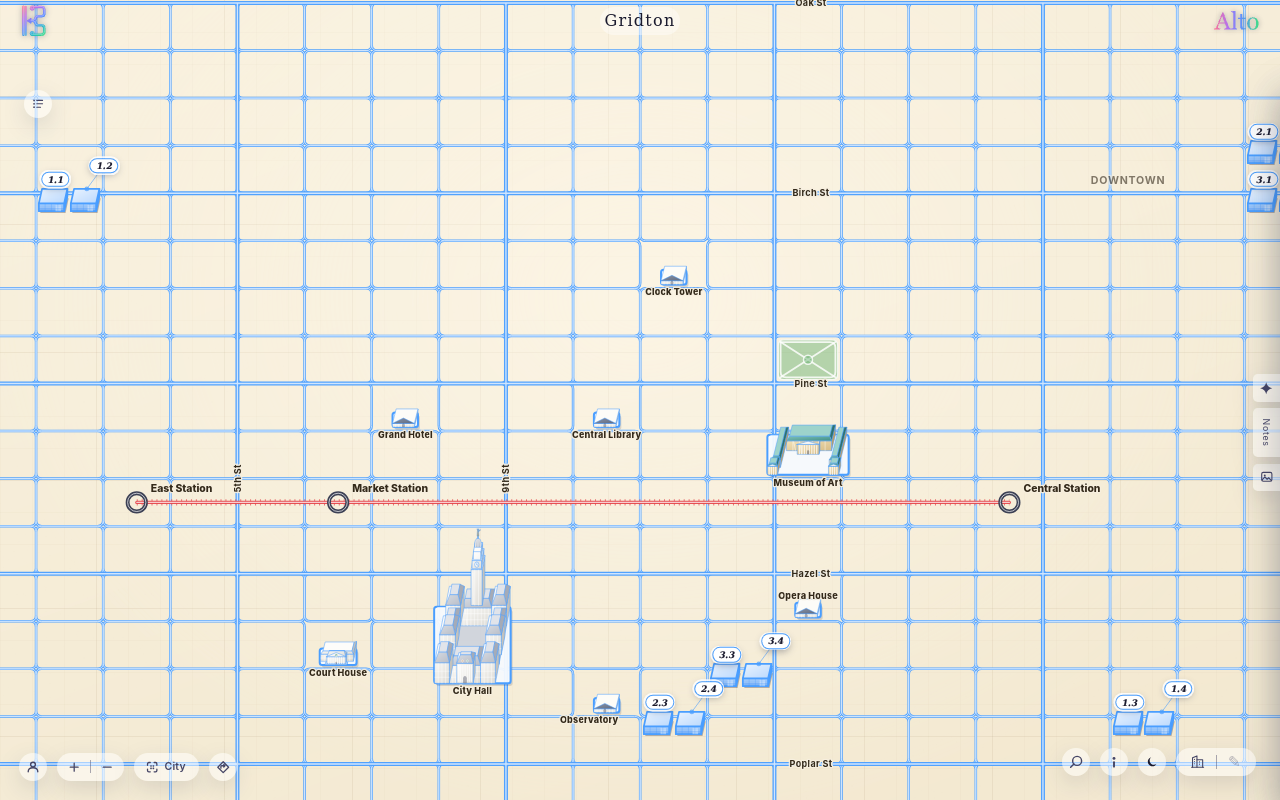
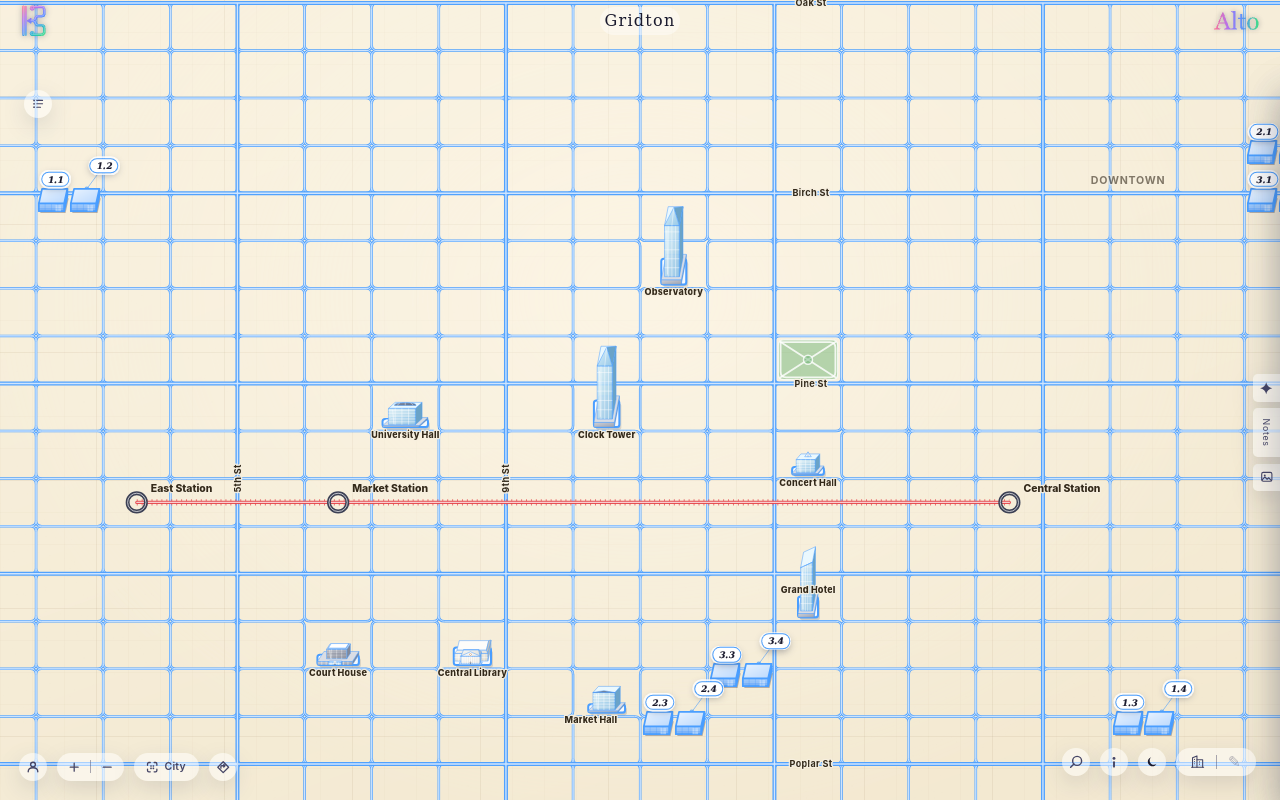
City build: invented landmarks get Alto's generic buildings (a look per landmark, varied by city, height and width), never a real building's art by name (an invented City Hall was drawn as Philadelphia's); palace_skyline art hints carry width_m
Claude-Session: https://claude.ai/code/session_01NpC4JTZhMtRV46Htvkp7WW

diff --git a/alto/build/city_invent.py b/alto/build/city_invent.py
@@ -47,6 +47,17 @@ _ROWS = ("Oak", "Elm", "Maple", "Cedar", "Birch", "Walnut", "Chestnut", "Spruce"
 _LANDMARKS = ("City Hall", "Central Library", "Museum of Art", "Opera House", "Court House", "Observatory", "Clock Tower",
               "Grand Hotel", "Market Hall", "University Hall", "Science Museum", "Concert Hall")
 ORD = {1: "st", 2: "nd", 3: "rd"}
+# an invented landmark's look: Alto's generic buildings only, never a real one (the page matches art by NAME, so an
+# invented "City Hall" or "Museum of Art" would otherwise be drawn as Philadelphia's). look -> art key.
+LOOKS = {"dome": "g-dome", "spire": "g-spire", "gable": "g-gable", "pyramid": "g-pyramid", "angled": "g-angled",
+         "flat": "g-flat", "classical": "ct-classical-city", "modern": "ct-modern-city", "tall": "ct-tower-city"}
+_LOOK_BY = [(r"hall|capitol|parliament|council|senate", ("dome", "classical", "spire", "gable")),
+            (r"court|justice", ("classical", "modern", "tall")),
+            (r"tower|clock|observatory|lighthouse|spire", ("spire", "pyramid", "tall")),
+            (r"museum|gallery|library|archive|university|college|school", ("classical", "dome", "gable", "angled")),
+            (r"opera|theat|concert|music|arena", ("angled", "dome", "pyramid")),
+            (r"hotel|bank|exchange|trade|office|plaza|centre|center", ("angled", "flat", "tall", "spire")),
+            (r"market|station|hall|church|temple|cathedral", ("gable", "pyramid", "spire"))]
 
 
 class InventError(ValueError):
@@ -55,6 +66,16 @@ class InventError(ValueError):
     def __init__(self, problems):
         self.problems = list(problems)
         super().__init__("; ".join(self.problems))
+
+
+def _look(city, name, kind, used=()):
+    """A landmark's look when the spec names none: from what its name says it is, varied by the city and the name
+    (seeded, so the same city always looks the same), avoiding looks the city has already used where it can."""
+    opts = next((o for rx, o in _LOOK_BY if re.search(rx, name, re.I)), None)
+    if opts is None:
+        opts = ("spire", "tall", "angled") if kind == "tower" else tuple(LOOKS)
+    fresh = [o for o in opts if o not in used] or list(opts)
+    return fresh[_seed(city + "|" + name) % len(fresh)]
 
 
 def _ord(i):
@@ -75,7 +96,8 @@ def template(kind=DEFAULT_TEMPLATE, name="") -> dict:
                   "radial": "Ringford", "blank": "New City"}[kind]
     if kind == "blank":
         return {"name": nm, "template": "blank", "districts": [], "streets": [], "water": [], "landmarks": [], "transit": []}
-    lm = list(_LANDMARKS[:8])
+    pool = sorted(_LANDMARKS, key=lambda x: _seed(nm + "|" + x))          # each city its own eight, in its own order
+    lm = pool[:8]
     if kind == "grid":
         ds = [{"name": "Downtown", "kind": "grid", "center": [1400, 1200], "size_km": [2.6, 2.2], "angle": 0}]
         streets, water = [], []
@@ -101,7 +123,8 @@ def template(kind=DEFAULT_TEMPLATE, name="") -> dict:
         streets = [{"name": "Crown Road", "class": "main", "from": "Centre", "to": "Newtown"}]
         water = []
     spots = [d["name"] for d in ds]
-    lms = [{"name": n, "at": spots[i % len(spots)], "kind": "civic" if i % 3 else "tower"} for i, n in enumerate(lm)]
+    lms = [{"name": n, "at": spots[i % len(spots)], "kind": "tower" if re.search(r"tower|observatory|hotel", n, re.I) else "civic"}
+           for i, n in enumerate(lm)]
     lms += [{"name": "Central Park" if kind != "radial" else "Ring Gardens", "at": spots[0], "kind": "park"},
             {"name": "Central Station", "at": spots[0], "kind": "station"},
             {"name": "Market Station", "at": spots[0], "kind": "station"},
@@ -202,6 +225,8 @@ def validate(spec) -> list:
         seen[_norm(n)] = lm.get("kind") or "civic"
         if (lm.get("kind") or "civic") not in ("tower", "civic", "station", "park"):
             P.append("landmark %r is a %r: a landmark is a tower, civic building, station or park" % (n, lm.get("kind")))
+        if lm.get("look") is not None and lm["look"] not in LOOKS:
+            P.append("landmark %r: a look is one of %s" % (n, ", ".join(LOOKS)))
         if lm.get("floors") is not None and not (_num(lm["floors"]) and 1 <= lm["floors"] <= 160):
             P.append("landmark %r: floors is a number from 1 to 160" % n)
     n_lm = sum(1 for lm in spec.get("landmarks") or [] if isinstance(lm, dict) and lm.get("kind") not in ("park", "station"))
@@ -449,7 +474,7 @@ def invent_city(spec) -> dict:
         return None
 
     # the spine: main streets between districts / points (they end on a district's street, so nothing starts from nowhere)
-    lm_pos, notes = {}, []
+    lm_pos, notes, used_looks = {}, [], []
     pend = []
     for s in spec.get("streets") or []:
         pend.append(s)
@@ -516,7 +541,13 @@ def invent_city(spec) -> dict:
             stations.append({"n": nm, "x": round(cx, 1), "y": round(cy, 1), "k": "rail", "l": []})   # (the line draws it)
         else:
             landmarks.append({"n": nm, "x": round(cx, 1), "y": round(cy, 1), "r": [_block_ring(cx, cy, bw, bh, 14.0)]})
-            lm_specs.append({"name": nm, **({"floors": int(lm["floors"])} if lm.get("floors") else {})})
+            look = lm.get("look") or _look(spec.get("name") or "", nm, kind, used_looks)
+            used_looks.append(look)
+            hs = _seed((spec.get("name") or "") + "|h|" + nm)
+            hm = float(lm["floors"]) * 4.0 if lm.get("floors") else (90 + hs % 120 if kind == "tower" else 28 + hs % 35)
+            fw = (40 + (hs >> 8) % 25) if kind == "tower" else (70 + (hs >> 8) % 35)     # m: a hall fills its block's front
+            lm_specs.append({"name": nm, "art": LOOKS[look], "height_m": round(hm, 1), "width_m": fw,
+                             **({"floors": int(lm["floors"])} if lm.get("floors") else {})})
         lm_pos[_norm(nm)] = (cx, cy)
     cells_of = {}
     for d in D:

diff --git a/tests/test_city_build.py b/tests/test_city_build.py
@@ -118,7 +118,7 @@ def test_blank_cannot_be_built_until_it_has_a_grid_district():
 
 @pytest.mark.parametrize("change,words", [
     (lambda sp: sp["transit"][0]["stops"].append("Atlantis"), "stops at 'Atlantis', which is not a station"),
-    (lambda sp: sp["transit"][0]["stops"].append("City Hall"), "a line stops at stations"),
+    (lambda sp: sp["transit"][0]["stops"].append(sp["landmarks"][0]["name"]), "a line stops at stations"),
     (lambda sp: sp["landmarks"].append({"name": "Tower X", "at": "Nowhere Street"}), "not a district or street"),
     (lambda sp: sp["districts"].append({"name": "Downtown", "size_km": 1}), "two districts are called 'Downtown'"),
     (lambda sp: sp["districts"].append({"name": "Twin", "center": [1450, 1200], "size_km": 2}), "overlap by more than a block"),
@@ -209,3 +209,22 @@ def test_a_line_through_a_landmark_is_found_and_has_a_fix():
     assert rows["I6"][0] == "warn" and ("Red Line", lm["n"]) in rows["I6"][2]["through"]
     why, fix = ci._plain("transit", rows, ci.template("grid"))
     assert lm["n"] in why and fix["op"] == "unpin" and lm["n"] in fix["names"]
+
+
+def test_invented_landmarks_never_take_a_real_buildings_art_and_cities_differ():
+    from alto.build.palace_landmarks import art_key
+    looks = {}
+    for kind in BUILT:
+        _m, g = ci.build(ci.template(kind))
+        keys = {l["n"]: art_key(l) for l in g["landmarks"]}
+        assert all(k in set(ci.LOOKS.values()) for k in keys.values()), keys      # never Philadelphia's City Hall, Museum...
+        assert len(set(keys.values())) >= 5                                       # a city of varied buildings
+        looks[kind] = keys
+    assert len({tuple(sorted(v.items())) for v in looks.values()}) == len(BUILT)   # no two cities alike
+    sp = ci.template("grid")
+    sp["landmarks"][0]["look"] = "pyramid"
+    _m, g = ci.build(sp)
+    assert art_key(next(l for l in g["landmarks"] if l["n"] == sp["landmarks"][0]["name"])) == "g-pyramid"
+    sp["landmarks"][0]["look"] = "philly"
+    with pytest.raises(ci.InventError):
+        ci.invent_city(sp)

diff --git a/alto/build/palace_skyline.py b/alto/build/palace_skyline.py
@@ -1603,7 +1603,8 @@ __all__ = ["SCALE", "KV", "build", "build_all", "spec_from_osm", "parse_height",
 
 # the art hints a landmark_buildings entry carries (C1 city_courts / city presets) onto its map record (the page's l.kind,
 # l.lv, l.hm, l.cs): the engines (palace_grid v1, city_engine v2) copy them so keyOf()/art_key() and scaleOf() see them
-ART_HINTS = (("art", "art"), ("kind", "kind"), ("level", "lv"), ("lv", "lv"), ("height_m", "hm"), ("style", "cs"), ("cs", "cs"))
+ART_HINTS = (("art", "art"), ("kind", "kind"), ("level", "lv"), ("lv", "lv"), ("height_m", "hm"), ("width_m", "fw"),
+             ("style", "cs"), ("cs", "cs"))     # width_m: a generic building's width (the page's scaleOf reads l.fw)
 
 
 def art_hints(spec: dict) -> dict:
@@ -1611,7 +1612,7 @@ def art_hints(spec: dict) -> dict:
     for k, to in ART_HINTS:
         v = (spec or {}).get(k)
         if v not in (None, "", 0) and to not in out:
-            if to == "hm":
+            if to in ("hm", "fw"):
                 try:
                     v = round(float(v), 1)
                 except (TypeError, ValueError):
